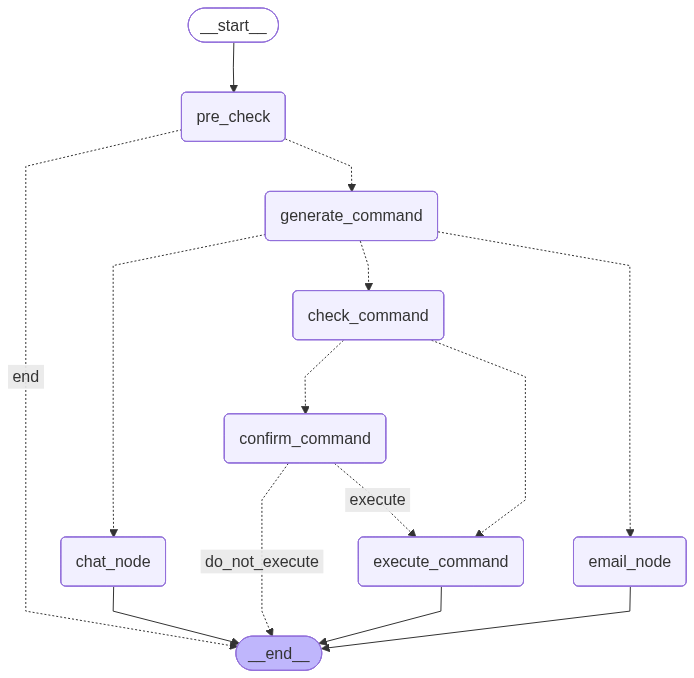
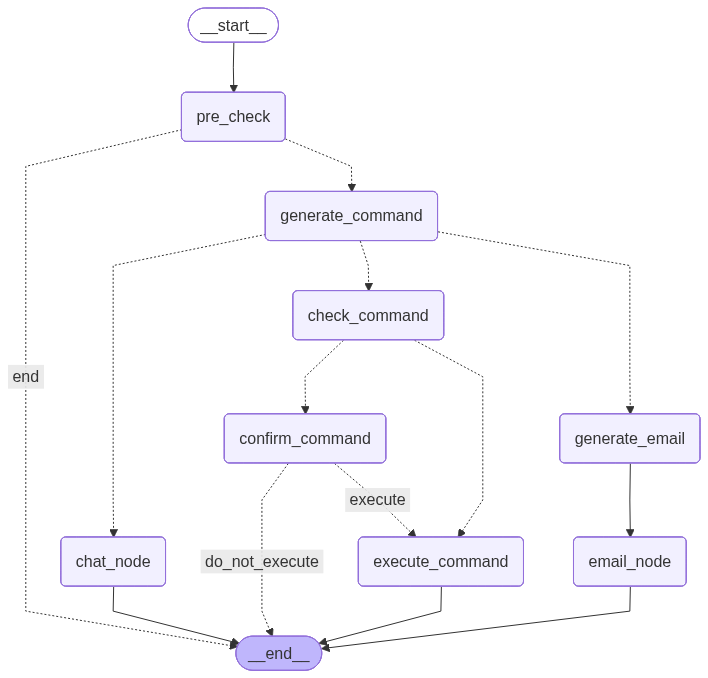
seperated email generation

diff --git a/termagent/agent/nodes.py b/termagent/agent/nodes.py
@@ -72,7 +72,27 @@ class CommandOutput(BaseModel):
     intent: Literal["command", "chat", "email"] = Field(..., description="Whether the user request is to execute a command, send an email or just a casual chat")
     cmd: str = Field("", description="The PowerShell command to execute, if intent is 'command'")
     response: str = Field("", description="The response to return to the user, if intent is 'chat'")
-    email: Optional[EmailOutput] = Field(None, description="The email to send, if intent is 'email'")
+
+def generate_email(state: AgentState) -> AgentState:
+    messages = [
+        SystemMessage(content="""
+            You are an expert email composer. Generate a professional email based on the user's request.
+
+            RULES:
+            - Use a proper greeting, clear body paragraphs, and a sign-off.
+            - Sign off using the name provided in "User's name". Never use placeholders like [Your Name].
+            - After the sign-off, add a new line: "Sent via Termagent."
+            - If an attachment is mentioned, populate the attachment field with the filename.
+            - Keep the tone professional unless the user specifies otherwise.
+        """),
+        HumanMessage(content=f"User's name: {state.get('user_name', 'User')}\nUser request: {state['text']}")
+    ]
+    llm = ChatGroq(model="llama-3.3-70b-versatile")
+    model = llm.with_structured_output(EmailOutput)
+    response = model.invoke(messages)
+    return {
+        "email": response.model_dump() if response else None
+    }
 
 def generate_command(state: AgentState) -> str:
 
@@ -91,10 +111,6 @@ def generate_command(state: AgentState) -> str:
         - No explanations, no markdown, no backticks
         - If the intent is "chat", return an empty string for cmd and provide the answer in response
         - If the intent is "command", provide the PowerShell command in cmd and leave response empty
-        - If the intent is "email", populate the email field with recipient, subject, body, and attachment (if any). 
-            Add a disclaimer at the end of the body that the email is sent by 'Termagent'. Leave cmd and response empty.  
-        - When composing email bodies, sign off with the user's actual name provided in "User's name", never use placeholders like [your name]. 
-        - Keep the mail structure well formatted.
         
         PREFERRED CMDLETS:
         - Files/Folders: New-Item, Remove-Item, Copy-Item, Move-Item, Rename-Item, Get-ChildItem
@@ -102,11 +118,6 @@ def generate_command(state: AgentState) -> str:
         - Info: Get-Location, Get-Process, Get-Service, ipconfig, whoami
         
         EXAMPLES:
-        User: create a folder named project
-        intent: command
-        cmd: New-Item -ItemType Directory -Name "project"
-        response: ""
-
         User: write "hello world" to notes.txt
         intent: command
         cmd: Set-Content -Path "notes.txt" -Value "hello world"
@@ -121,17 +132,6 @@ def generate_command(state: AgentState) -> str:
         intent: command  
         cmd: New-Item -ItemType File -Name "readme.txt" -Force; Set-Content -Path "readme.txt" -Value "hello world"
         response: ""
-                  
-        User: send report.pdf to john@gmail.com
-        intent: email
-        cmd: ""
-        response: ""
-        email: {
-            "recipient": "john@gmail.com",
-            "subject": "Report",
-            "body": "Please find the attached report.",
-            "attachment": "report.pdf"
-        }
         """),
     HumanMessage(content=f"Current working directory: {state['cwd']}\nUser's name: {state.get('user_name', 'User')}\nUser request: {state['text']}")
     ]
@@ -145,8 +145,7 @@ def generate_command(state: AgentState) -> str:
     return {
         "cmd": response.cmd,
         "intent": response.intent,
-        "response": response.response,
-        "email": response.email.model_dump() if response.email else None
+        "response": response.response
     }
 
 def chat_node(state: AgentState) -> AgentState:
@@ -164,7 +163,7 @@ def check_command(state: AgentState) -> AgentState:
     ]
 
     llm = ChatGroq(model="llama-3.3-70b-versatile")
-    # llm = ChatOllama(model=OLLAMA_MODEL)
+
     model = llm.with_structured_output(safety_check)
 
     response = model.invoke(messages)

diff --git a/termagent/ui.py b/termagent/ui.py
@@ -355,23 +355,22 @@ def main():
 
     email_user = os.getenv("EMAIL_ADDRESS")
     email_pass = os.getenv("EMAIL_PASSWORD")
-    email_enabled = input("Enable email features? (yes/no): ").strip().lower()
 
-    if email_enabled == "yes":
-        email_user = os.getenv("EMAIL_ADDRESS")
-        if not email_user:
-            # ask for credentials
+    if email_user and email_pass:
+        print("Email features enabled.")
+    else:
+        email_enabled = input("Enable email features? (yes/no): ").strip().lower()
+        if email_enabled == "yes":
             print("Email credentials not found.")
             print("Email credentials will only be used when sending an email.")
             print("""
-                Google doesn't allow regular passwords for SMTP. They need to generate an App Password:
-                Go to myaccount.google.com/apppasswords
-                Generate one for "Mail"
+                Google doesn't allow regular passwords for SMTP.
+                Go to myaccount.google.com/apppasswords and generate an App Password for "Mail".
             """)
-            email_user_name = input("Enter your name(used for email signatures): ")
+            email_user_name = input("Enter your name (used for email signatures): ")
             email_user = input("Enter your email address: ").strip()
             email_pass = input("Enter your email password/app password: ").strip()
-            
+
             save = input("Save to .env for future use? (yes/no): ")
             if save.lower() == "yes":
                 with open(".env", "a") as f:
@@ -382,13 +381,10 @@ def main():
             os.environ["EMAIL_ADDRESS"] = email_user
             os.environ["EMAIL_PASSWORD"] = email_pass
             os.environ["EMAIL_USERNAME"] = email_user_name
-    else:
-        print("Email features will be disabled. You can enable them later by setting EMAIL_ADDRESS and EMAIL_PASSWORD in your .env file.")
-        print("--------------------------OR--------------------------")
-        print("Restart TERMAGENT and choose yes to enter credentials interactively.")
+        else:
+            print("Email features disabled. Set EMAIL_ADDRESS and EMAIL_PASSWORD in .env to enable later.")
 
     print("Starting TERMAGENT...")
-    time.sleep(3)
     app = TermAgent()
     app.run()
 

diff --git a/termagent/agent/graph.py b/termagent/agent/graph.py
@@ -1,5 +1,5 @@
 from langgraph.graph import START, END, StateGraph
-from .nodes import generate_command, check_command, confirm_command, execute_command, chat_node, email_node, pre_check
+from .nodes import generate_command, check_command, confirm_command, execute_command, chat_node, email_node, pre_check, generate_email
 from .state import AgentState 
 
 def if_risky(state: AgentState) -> str:
@@ -24,7 +24,7 @@ def route_intent(state: AgentState) -> str:
     if state["intent"] == "command":
         return "check_command"
     elif state["intent"] == "email":
-        return "email_node"
+        return "generate_email"
     else:
         return "chat_node"
 
@@ -32,6 +32,7 @@ graph = StateGraph(AgentState)
 
 graph.add_node("pre_check", pre_check)
 graph.add_node("generate_command", generate_command)
+graph.add_node("generate_email", generate_email)
 graph.add_node("chat_node", chat_node)
 graph.add_node("email_node", email_node)
 graph.add_node("check_command", check_command)
@@ -54,11 +55,12 @@ graph.add_conditional_edges(
     {
         "check_command": "check_command",
         "chat_node": "chat_node",
-        "email_node": "email_node"
+        "generate_email": "generate_email"
     }
 )
 
 graph.add_edge("chat_node", END)
+graph.add_edge("generate_email", "email_node")
 graph.add_edge("email_node", END)
 
 graph.add_conditional_edges(
